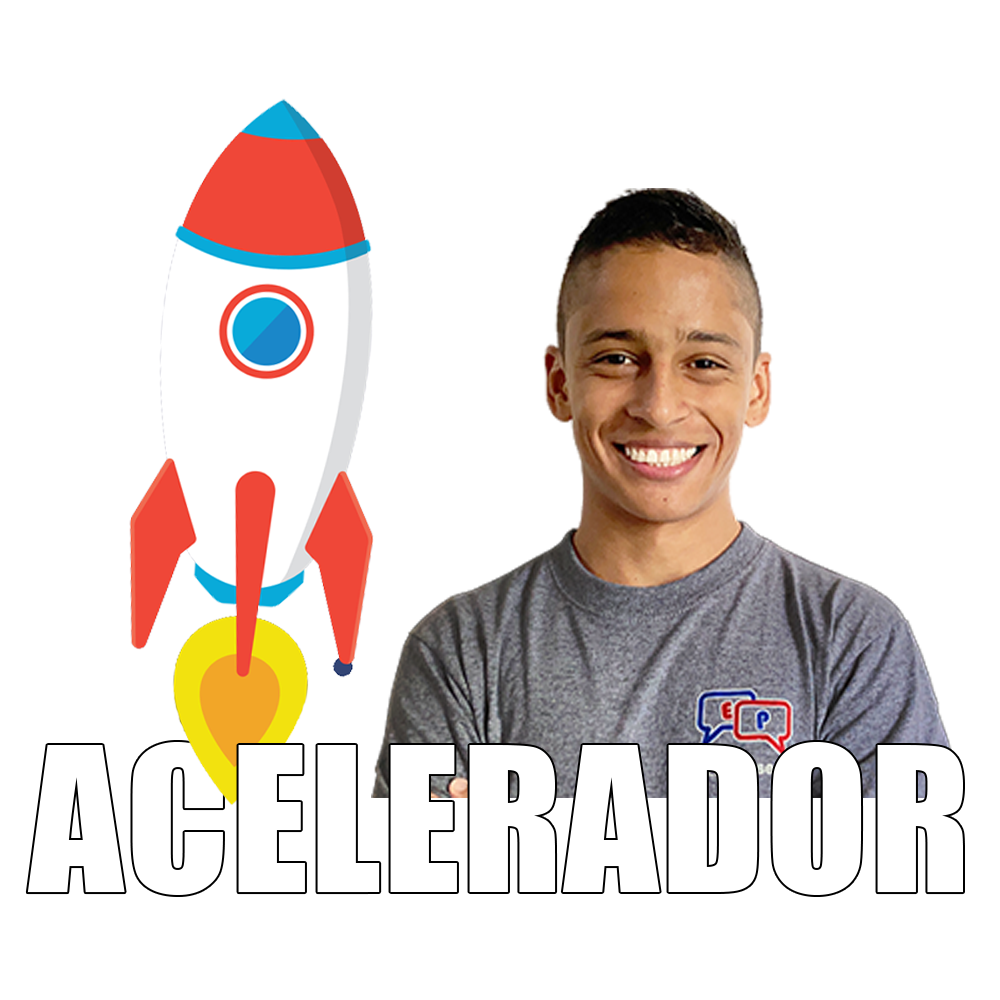
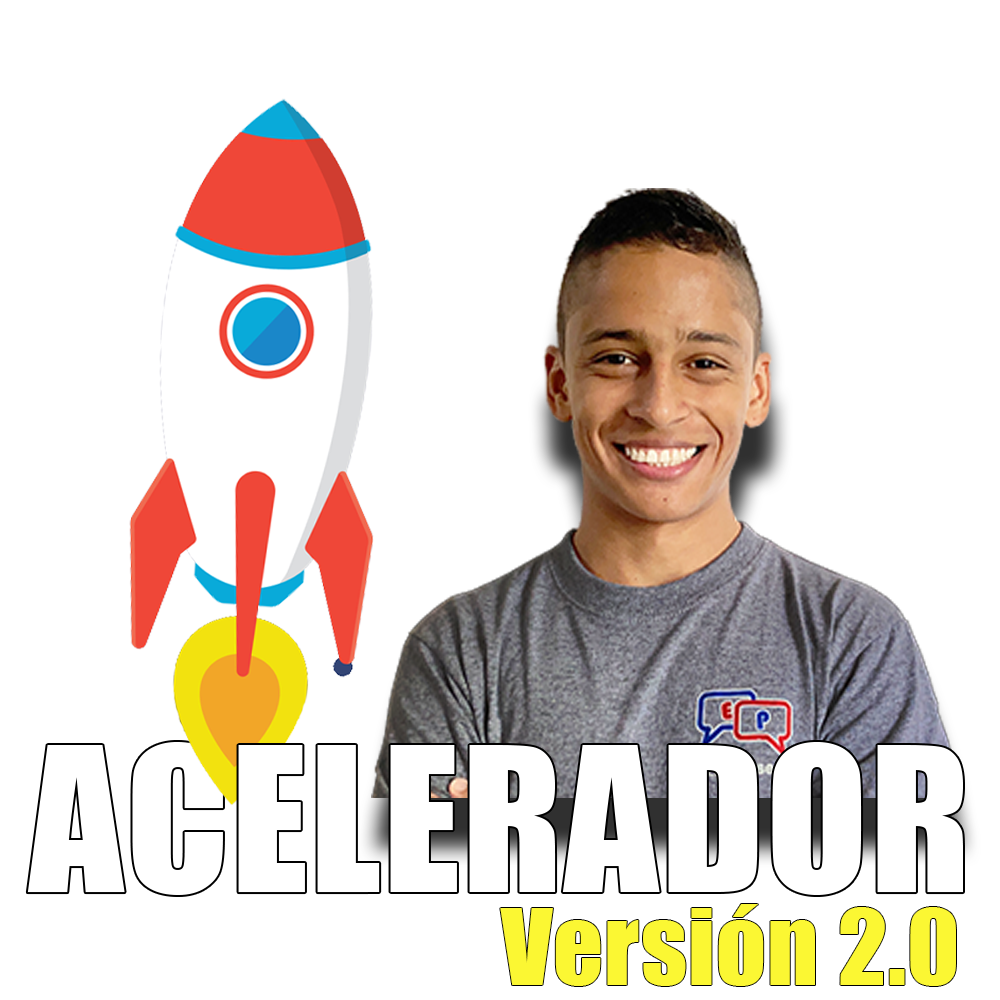
updating Acelerador landingpage

diff --git a/acelerador.html b/acelerador.html
@@ -40,7 +40,7 @@
 
                 <div class="hero-titles">
                     <h1>Acelerador de Inglés</h1>
-                    <p>Programa de entrenamiento intensivo de 12 semanas para acelerar tus habilidades del Idioma, enfocado a estudiantes nivel 0, A1, y A2.</p>
+                    <p>Programa de entrenamiento intensivo de 3 meses(12 semanas) para acelerar tus habilidades del Idioma, enfocado a estudiantes nivel 0, A1, y A2.</p>
                 </div>
 
                 <div class="hero-links">
@@ -50,7 +50,7 @@
 
                 <div class="hero-differences">
                     <p>El <a href="https://izipizicourse.com" target="_blank">EasyPeasyCourse</a> y el <a href="#">Acelerador</a> son dos programas diferentes*</p>
-                    <!-- <a href="">Conocer más</a> -->
+                    <a href="#conoce-mas" id="know-more">Conocer más</a>
                 </div>
 
             </div>
@@ -61,6 +61,30 @@
                 </figure>
             </div>
 
+        </div>
+    </div>
+
+    <div class="line"></div>
+
+    <div class="know-more" id="conoce-mas">
+        <div class="u-wrapper conoce-mas-wrapper">
+            <p>Conoce más - Contenido</p>
+            <div class="acelerador-description">
+                <ul>
+                    <!-- <li>Instructor: Mr. Eren (Turquía)</li> -->
+                    <li>Acelerador Version2.0. <a href="https://youtube.com/playlist?list=PLkeLMOvUJo9yHj4WW5R_tPlGoTAQc3a5v" target="_blank">Conoce la Versión1.0</a></li>
+                    <li>Plataforma y Material de Estudio: <u>Módulo Perfeccionador de Oído</u>, <u>Módulo Nivel 1 EPC</u></li>
+                    <li>Duración: 3 meses de sesiones de Zoom. Cada sesión de 1 hora.</li>
+                    <li>36 sesiones en total (12 semanas)</li>
+                    <li>8 personas por sala</li>
+                    <li>Horarios flexible: 6am, 8am, 10am, 12m, 2pm, 4pm (Hora Colombia GMT-5)</li>
+                    <li>Chat privado en Telegram</li>
+                    <li>CUPO LIMITADO: 96 personas en total</li>
+                    <li>Inicio: Lunes 22 Enero, 2022 | Finaliza: Viernes 1 Abril, 2022</li>
+                    <li>Inscripciones abiertas: <a href="https://acelerador3m.club.hotmart.com/signup">Regístrate</a></li>
+                    <li>Valor por sesión: 3 dólares</li>
+                </ul>
+            </div>
         </div>
     </div>
 

diff --git a/acelerador.css b/acelerador.css
@@ -117,18 +117,6 @@ header label:hover {
     margin: 0 0 15px 0;
     font-size: 1.25rem;
 }
-.hero-differences p {
-    margin: 0;
-    font-size: .6875rem;
-}
-.hero-differences a {
-    color: #fff;
-    border-radius: 8px;
-    padding: 4px;
-}
-.hero-differences a:hover {
-    background-color: rgba(0, 0, 0, 0.2);
-}
 
 .hero-links{
     padding: 0;
@@ -151,12 +139,74 @@ header label:hover {
     transition: .4s;
 }
 
+.hero-differences p {
+    margin: 0;
+    font-size: .6875rem;
+}
+.hero-differences a {
+    color: #fff;
+    border-radius: 8px;
+    padding: 4px;
+}
+.hero-differences a:hover {
+    background-color: rgba(0, 0, 0, 0.2);
+}
+
+#know-more {
+    text-align: center;
+    display: block;
+    margin: 15px 0;
+    color: #fff;
+    text-decoration: none;
+    padding: 12px 15%;
+    background-color: rgba(0, 0, 0, 0.2);
+    border-radius: 12px;
+    cursor: pointer;
+}
+#know-more:hover {
+    background-color: rgba(0, 0, 0, 0.6);
+    transition: .4s;
+}
+
+
 .hero-img {
     width: 50%;
 }
 
 .hero-img img{
     width: 100%;
+}
+
+
+/* LINE */
+.line {
+    margin: 30px auto;
+    width: 40vw;
+    border-bottom: 1px solid white;
+}
+
+
+/* CONOCE-MAS */
+.conoce-mas-wrapper {
+    margin-bottom: 50px;
+}
+.conoce-mas-wrapper p {
+    text-align: center;
+    font-size: 20px;
+    margin: 60px auto;
+}
+
+.acelerador-description ul {
+    color: #fff;
+    font-size: 14px;
+    display: grid;
+    gap: 15px;
+    padding-right: 30px;
+
+}
+.acelerador-description ul a {
+    
+    color: #fff;
 }
 
 
@@ -505,6 +555,12 @@ header label:hover {
     .hero-img figure {
         padding: 0 40px;
     }
+
+
+    /* LINE */
+.line {
+    width: 80vw;
+}
 
 
     /* FOOTER SECTION */
